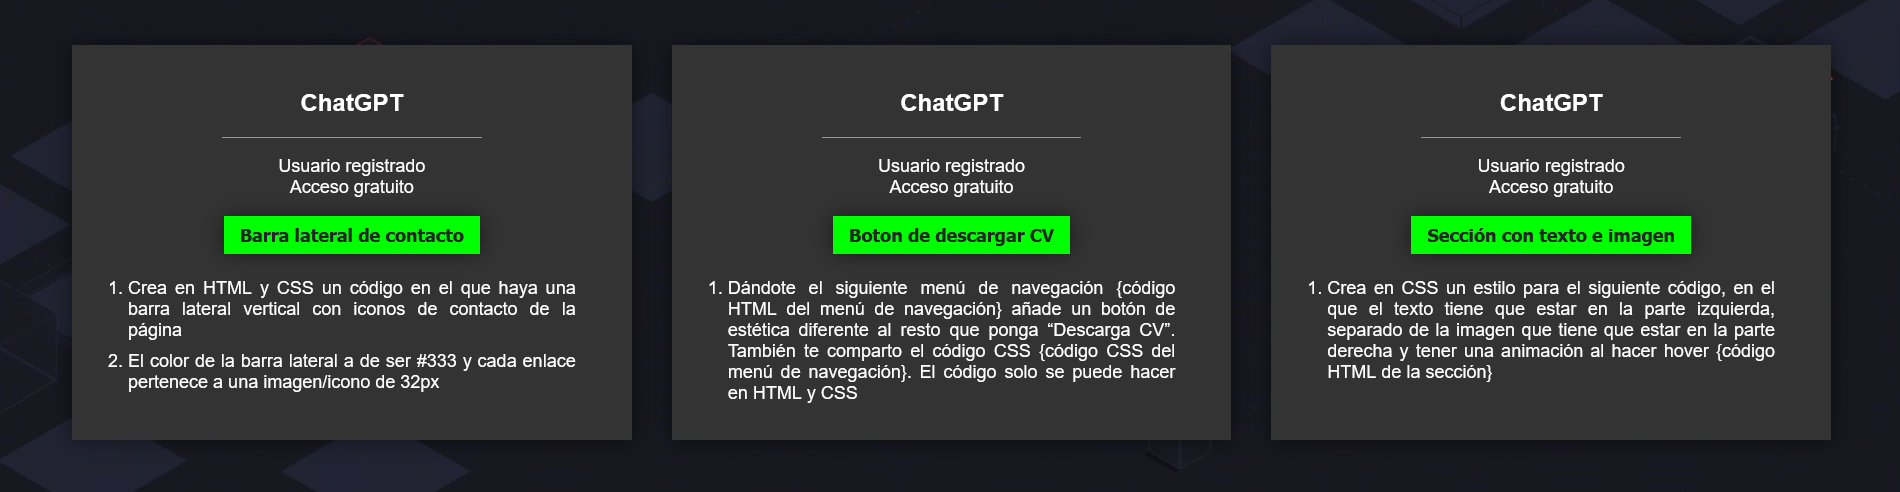
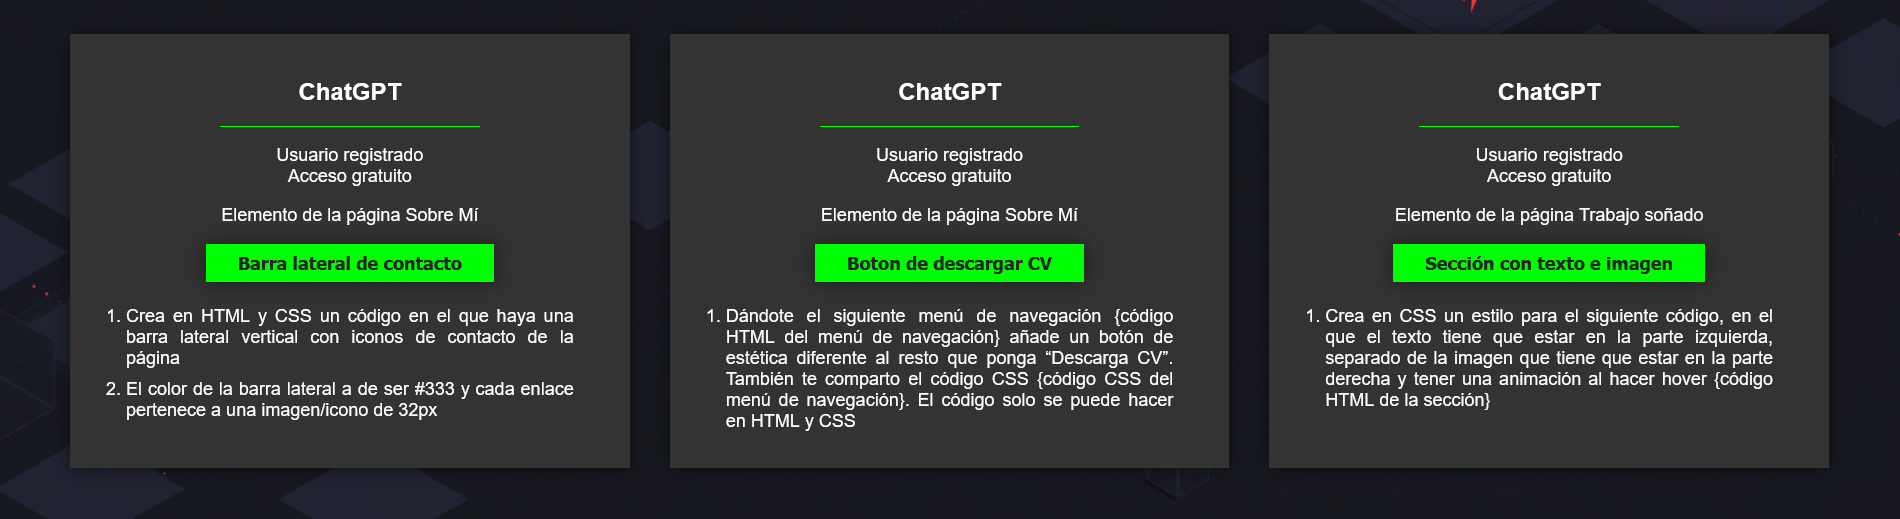
Añadir ubicación de los elementos

diff --git a/Lenguajes de marcas y sistemas de gestión de información/Unidad3-HTML y CSS/Ejercicios/Ejercicio02_The-Ultimate-Project/ai.html b/Lenguajes de marcas y sistemas de gestión de información/Unidad3-HTML y CSS/Ejercicios/Ejercicio02_The-Ultimate-Project/ai.html
@@ -37,6 +37,7 @@
 					<h2>ChatGPT</h2>
 					<hr>
 					<p>Usuario registrado<br>Acceso gratuito</p>
+					<p>Elemento de la página de Inicio</p>
 					<button><a href="./content/images/presentation.png" target="_blank">Sección de presentación</a></button>
 					<ol>
 						<li>Crea en HTML y CSS una sección de presentación de una página web animada y bonita con una flecha debajo del texto que se mueva verticalmente de color verde</li>
@@ -47,6 +48,7 @@
 					<h2>ChatGPT</h2>
 					<hr>
 					<p>Usuario registrado<br>Acceso gratuito</p>
+					<p>Elemento de la página Inicio</p>
 					<button><a href="./content/images/dynamic_boxes.png" target="_blank">Cartas dinamicas</a></button>
 					<ol>
 						<li>Crea en HTML y CSS una sección con cartas, donde cada carta tiene un encabezado y una lista unordenada. Al hacer hover sobre cada carta, esta tendrá una animación y desaparecerá el texto y aparecerá una imagen. Cada carta tiene que tener un enlace a otra página web. La carta tiene que tener temática oscura</li>
@@ -57,6 +59,7 @@
 					<h2>ChatGPT</h2>
 					<hr>
 					<p>Usuario registrado<br>Acceso gratuito</p>
+					<p>Elemento de la página Inteligencia Artificial</p>
 					<button><a href="./content/images/static_boxes.png" target="_blank">Cartas estaticas con lista ordenada</a></button>
 					<ol>
 						<li>Crea en HTML y CSS una sección en la cual ha de haber 3 box alineados horizontalmente, han de estar animados, y han de tener, encabezado, un párrafo, un botón y una lista ordenada.</li>
@@ -72,6 +75,7 @@
 					<h2>ChatGPT</h2>
 					<hr>
 					<p>Usuario registrado<br>Acceso gratuito</p>
+					<p>Primer elemento de todas las páginas</p>
 					<button><a href="./content/images/menu.png" target="_blank">Menu de navegación</a></button>
 					<ol>
 						<li>¿Me puedes hacer un menú animado en HTML Y CSS?</li>
@@ -88,6 +92,7 @@
 					<h2>ChatGPT</h2>
 					<hr>
 					<p>Usuario registrado<br>Acceso gratuito</p>
+					<p>Ultimo elemento de todas las páginas</p>
 					<button><a href="./content/images/footer.png" target="_blank">Footer</a></button>
 					<ol>
 						<li>Crea un diseño en CSS para el siguiente código en HTML {código HTML del footer}</li>
@@ -106,6 +111,7 @@
 					<h2>ChatGPT</h2>
 					<hr>
 					<p>Usuario registrado<br>Acceso gratuito</p>
+					<p>Elemento de la página Sobre Mí</p>
 					<button><a href="./content/images/sidebar.png" target="_blank">Barra lateral de contacto</a></button>
 					<ol>
 						<li>Crea en HTML y CSS un código en el que haya una barra lateral vertical con iconos de contacto de la página</li>
@@ -116,6 +122,7 @@
 					<h2>ChatGPT</h2>
 					<hr>
 					<p>Usuario registrado<br>Acceso gratuito</p>
+					<p>Elemento de la página Sobre Mí</p>
 					<button><a href="./content/images/cv_button.png" target="_blank">Boton de descargar CV</a></button>
 					<ol>
 						<li>Dándote el siguiente menú de navegación {código HTML del menú de navegación} añade un botón de estética diferente al resto que ponga “Descarga CV”. También te comparto el código CSS {código CSS del menú de navegación}. El código solo se puede hacer en HTML y CSS</li>
@@ -125,6 +132,7 @@
 					<h2>ChatGPT</h2>
 					<hr>
 					<p>Usuario registrado<br>Acceso gratuito</p>
+					<p>Elemento de la página Trabajo soñado</p>
 					<button><a href="./content/images/image_section.png" target="_blank">Sección con texto e imagen</a></button>
 					<ol>
 						<li>Crea en CSS un estilo para el siguiente código, en el que el texto tiene que estar en la parte izquierda, separado de la imagen que tiene que estar en la parte derecha y tener una animación al hacer hover {código HTML de la sección}</li>
